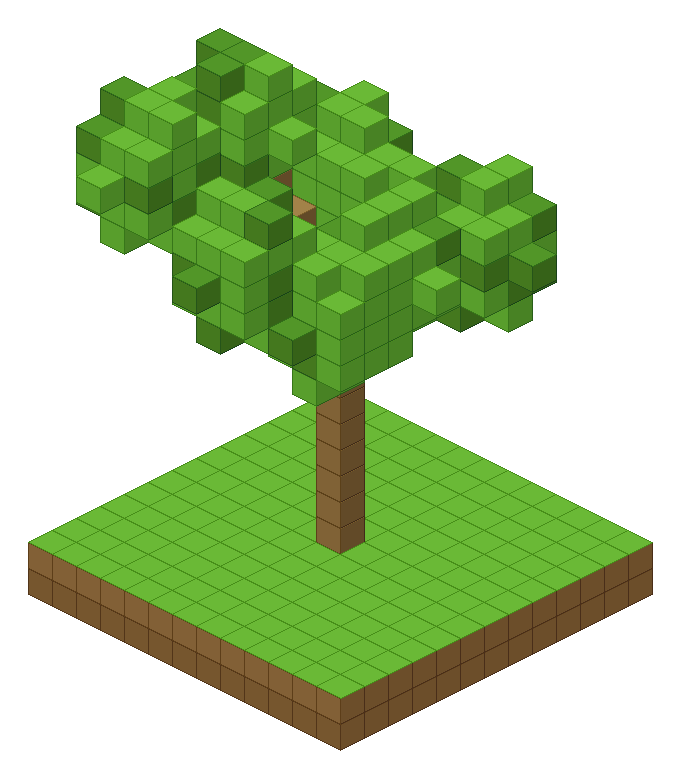
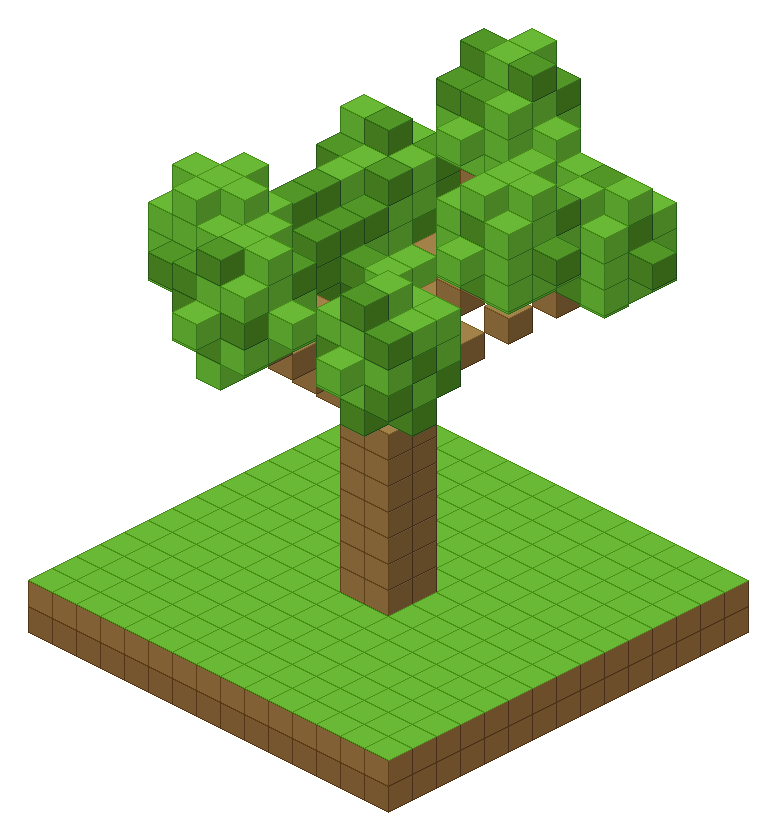
Thicken trunk and guarantee 5+ branches
- Trunk is now 2×2 blocks at base, tapering to 1×1 near top
- Minimum 5 branches at all commit levels (was 3 before)
- Branches extended to 3-5 blocks for better visibility
- Branch origin offsets align with trunk width

Changed region(s): [[0.0309, 0.0308, 0.9882, 0.9563], [0.4941, 0.9563, 0.525, 0.9871]]

diff --git a/scripts/generate_tree.py b/scripts/generate_tree.py
@@ -52,11 +52,9 @@ def draw_block(draw, bx, by, bz, btype, ox, oy):
 def build_tree(commits):
     rng = random.Random(commits % 9973)
 
-    if   commits <   50: trunk_h, n_br = 5, 3
-    elif commits <  200: trunk_h, n_br = 6, 4
-    elif commits <  500: trunk_h, n_br = 7, 5
-    elif commits < 1500: trunk_h, n_br = 8, 6
-    elif commits < 3000: trunk_h, n_br = 9, 7
+    if   commits <  200: trunk_h, n_br = 7, 5
+    elif commits <  500: trunk_h, n_br = 8, 6
+    elif commits < 1500: trunk_h, n_br = 9, 7
     else:                trunk_h, n_br = 10, 8
 
     blk = {}  # (x,y,z) -> block_type
@@ -65,15 +63,20 @@ def build_tree(commits):
         if force or (x, y, z) not in blk:
             blk[(x, y, z)] = t
 
-    # Ground (grass + dirt, large enough for wide branches)
-    for dx in range(-6, 7):
-        for dz in range(-6, 7):
+    # Ground
+    for dx in range(-7, 8):
+        for dz in range(-7, 8):
             put(dx, -1, dz, 'grass')
             put(dx, -2, dz, 'dirt')
 
-    # Trunk
+    # Thick trunk: 2×2 base tapering to 1×1 near top
+    thick_up_to = trunk_h - 3  # lower portion is 2×2
     for y in range(trunk_h):
         put(0, y, 0, 'wood', force=True)
+        if y < thick_up_to:
+            put(1, y, 0, 'wood', force=True)
+            put(0, y, 1, 'wood', force=True)
+            put(1, y, 1, 'wood', force=True)
 
     # 8 possible branch directions (cardinal + diagonal)
     all_dirs = [(1,0),(-1,0),(0,1),(0,-1),(1,1),(-1,1),(1,-1),(-1,-1)]
@@ -84,8 +87,11 @@ def build_tree(commits):
     for bdx, bdz in branch_dirs:
         # Branch starts at a random height in the upper trunk
         y0 = trunk_h - 3 + rng.randint(0, 3)
-        length = 2 + rng.randint(0, 2)
-        x, y, z = 0, y0, 0
+        length = 3 + rng.randint(0, 2)  # longer branches for better visibility
+        # Branch origin shifts from trunk center based on direction
+        ox = 1 if bdx > 0 else 0
+        oz = 1 if bdz > 0 else 0
+        x, y, z = ox, y0, oz
         for _ in range(length):
             x += bdx
             z += bdz
